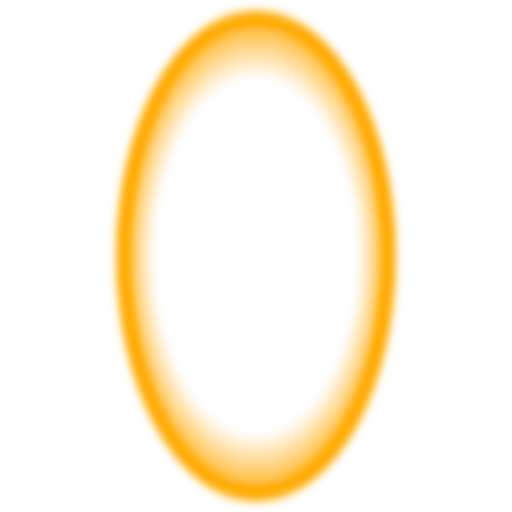
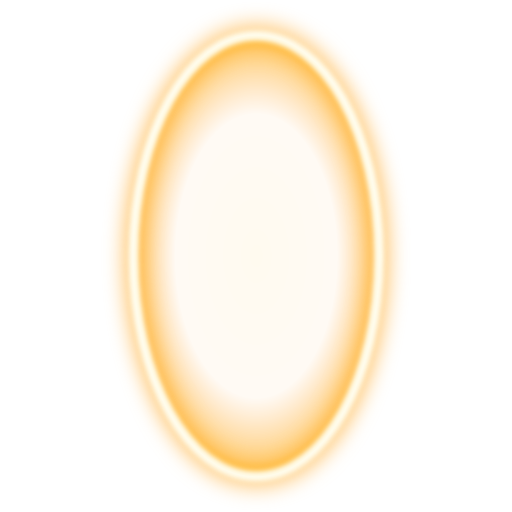
Updated portal graphics

Changed region(s): [[0.2188, 0.0, 0.7812, 1.0]]

diff --git a/source/engine/Resources.cpp b/source/engine/Resources.cpp
@@ -247,27 +247,27 @@ void Resources::compilePortalModel() {
   glBegin(GL_TRIANGLE_FAN);
   glVertex3f( 0.00f, 0.00f, 0.001f);
 
-  glVertex3f( 0.00f, 1.25f, 0.001f);
-  glVertex3f(-0.29f, 1.15f, 0.001f);
-  glVertex3f(-0.53f, 0.88f, 0.001f);
-  glVertex3f(-0.69f, 0.48f, 0.001f);
+  glVertex3f( 0.00f, 1.15f, 0.001f);
+  glVertex3f(-0.29f, 1.05f, 0.001f);
+  glVertex3f(-0.53f, 0.75f, 0.001f);
+  glVertex3f(-0.60f, 0.40f, 0.001f);
 
-  glVertex3f(-0.75f, 0.00f, 0.001f);
-  glVertex3f(-0.69f,-0.48f, 0.001f);
-  glVertex3f(-0.53f,-0.88f, 0.001f);
-  glVertex3f(-0.29f,-1.15f, 0.001f);
+  glVertex3f(-0.65f, 0.00f, 0.001f);
+  glVertex3f(-0.60f,-0.40f, 0.001f);
+  glVertex3f(-0.53f,-0.75f, 0.001f);
+  glVertex3f(-0.29f,-1.05f, 0.001f);
 
-  glVertex3f( 0.00f,-1.25f, 0.001f);
-  glVertex3f( 0.29f,-1.15f, 0.001f);
-  glVertex3f( 0.53f,-0.88f, 0.001f);
-  glVertex3f( 0.69f,-0.48f, 0.001f);
+  glVertex3f( 0.00f,-1.15f, 0.001f);
+  glVertex3f( 0.29f,-1.05f, 0.001f);
+  glVertex3f( 0.53f,-0.75f, 0.001f);
+  glVertex3f( 0.60f,-0.40f, 0.001f);
 
-  glVertex3f( 0.75f, 0.00f, 0.001f);
-  glVertex3f( 0.69f, 0.48f, 0.001f);
-  glVertex3f( 0.53f, 0.88f, 0.001f);
-  glVertex3f( 0.29f, 1.15f, 0.001f);
+  glVertex3f( 0.65f, 0.00f, 0.001f);
+  glVertex3f( 0.60f, 0.40f, 0.001f);
+  glVertex3f( 0.53f, 0.75f, 0.001f);
+  glVertex3f( 0.29f, 1.05f, 0.001f);
 
-  glVertex3f( 0.00f, 1.25f, 0.001f);
+  glVertex3f( 0.00f, 1.15f, 0.001f);
   glEnd();
   glEndList();
 

diff --git a/source/Portal.cpp b/source/Portal.cpp
@@ -218,6 +218,12 @@ void Portal::drawOutline(PORTAL_COLOR color) {
   glTranslatef(position.x, position.y, position.z);
   glRotatef(getFromRotation(), 0,1,0);
 
+  //Portal material
+  float portal_diffuse[4] = {1.0f, 1.0f, 1.0f, 1.0f};
+  float portal_emission[4] = {1.0f, 1.0f, 1.0f, 1.0f};
+  glMaterialfv(GL_FRONT_AND_BACK, GL_DIFFUSE, portal_diffuse);
+  glMaterialfv(GL_FRONT_AND_BACK, GL_EMISSION, portal_emission);
+
   // Bind blue of orange portal texture
   glEnable(GL_TEXTURE_2D);
     if(color == PC_BLUE) {
